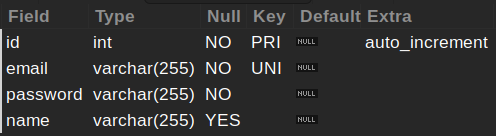
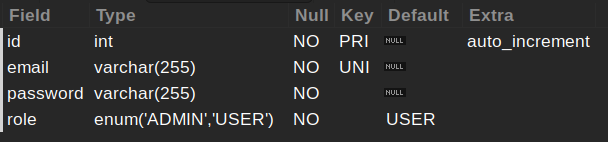
ongoing

diff --git a/backend/src/controllers/UserController.js b/backend/src/controllers/UserController.js
@@ -1,59 +1,133 @@
 const models = require("../models");
-const UserManager = require('../models/UserManager');
+const argon2 = require("argon2");
+const jwt = require("jsonwebtoken");
 
 class UserController {
   static register = async (req, res) => {
-    const { email, password, name } = req.body;
+    const { email, password, role } = req.body;
 
-    // TODO check if email and/or password are empty or missing
+    if (!email || !password) {
+      res.status(400).send({ error: "Please specify both email and password" });
+      return;
+    }
 
-    // TODO hash password
+    try {
+      const hash = await argon2.hash(password);
 
-    UserManager
-      .insert({ email, password, name })
-      .then(([result]) => {
-        // TODO success response
-      })
-      .catch((err) => {
-        console.error(err);
-        // TODO send error response
+      models.user
+        .insert({ email, password: hash, role })
+        .then(([result]) => {
+          res.status(201).send({ id: result.insertId, email, role });
+        })
+        .catch((err) => {
+          console.error(err);
+          res.status(500).send({
+            error: err.message,
+          });
+        });
+    } catch (err) {
+      console.error(err);
+      res.status(500).send({
+        error: err.message,
       });
+    }
   };
 
   static login = (req, res) => {
     const { email, password } = req.body;
 
-    // TODO check if email and/or password are empty or missing
+    if (!email || !password) {
+      res.status(400).send({ error: "Please specify both email and password" });
+    }
 
     models.user
-      // TODO complete the `findByMail` method in UserManager.js
       .findByMail(email)
       .then(async ([rows]) => {
         if (rows[0] == null) {
-          // TODO invalid email
+          res.status(401).send({
+            error: "Invalid email",
+          });
         } else {
-          // TODO check password
-          // TODO generate JWT
-          // TODO send response
+          const { id, email, password: hashedPassword, role } = rows[0];
+
+          if (await argon2.verify(hashedPassword, password)) {
+            const token = jwt.sign(
+              { id: id, role: role },
+              process.env.JWT_AUTH_SECRET,
+              {
+                expiresIn: "1h",
+              }
+            );
+
+            res
+              .cookie("access_token", token, {
+                httpOnly: true,
+                secure: process.env.NODE_ENV === "production",
+              })
+              .status(200)
+              .send({
+                id,
+                email,
+                role,
+              });
+          } else {
+            res.status(401).send({
+              error: "Invalid password",
+            });
+          }
         }
       })
       .catch((err) => {
         console.error(err);
-        // TODO send error response
+        res.status(500).send({
+          error: err.message,
+        });
       });
   };
 
-  // TODO add authenticateWithJsonWebToken method here!
+  // TODO add `authorization` middleware here!
+  static authorization = (req, res, next) => {
+    const token = req.cookies.access_token;
+    if (!token) {
+      return res.sendStatus(401);
+    }
+    try {
+      const data = jwt.verify(token, process.env.JWT_AUTH_SECRET);
+      req.userId = data.id;
+      req.userRole = data.role;
+      return next();
+    } catch {
+      return res.sendStatus(401);
+    }
+  };
+
+  // TODO add `isAdmin` middleware here!
+  static isAdmin = (req, res, next) => {
+    if (req.userRole === "ADMIN") {
+      return next();
+    }
+    return res.sendStatus(403);
+  };
 
   static browse = (req, res) => {
     models.user
       .findAll()
       .then(([rows]) => {
-        // TODO send users without passwords
+        res.send(
+          rows.map((user) => {
+            return {
+              id: user.id,
+              email: user.email,
+              role: user.role,
+            };
+          })
+        );
       })
       .catch((err) => {
         console.error(err);
-        // TODO send error response
+        res.status(500).send({
+          error: err.message,
+        });
       });
   };
 

diff --git a/backend/src/models/UserManager.js b/backend/src/models/UserManager.js
@@ -4,7 +4,12 @@ class UserManager extends AbstractManager {
   static table = "user";
 
   // TODO complete the `findByMail` method
-  findByMail(email) {}
+  findByMail(email) {
+    return this.connection.query(
+      `select * from ${UserManager.table} where email = ?`,
+      [email]
+    );
+  }
 
   insert(user) {
     return this.connection.query(

diff --git a/backend/src/app.js b/backend/src/app.js
@@ -1,4 +1,5 @@
 const express = require("express");
+const cookieParser = require("cookie-parser");
 const path = require("path");
 
 const cors = require("cors");
@@ -6,6 +7,8 @@ const cors = require("cors");
 // let's create express app
 
 const app = express();
+
+app.use(cookieParser());
 
 // use some application-level middlewares
 app.use(

diff --git a/README.md b/README.md
@@ -12,7 +12,7 @@ npm run setup
 
 ### Database
 
-In order to manage user registration and login, create a new database named `jwtcourse` and import the script `backend/database.sql` to recreate the following `user` table:
+In order to manage user registration and login, read then import the SQL file `backend/database.sql` to recreate the following `user` table:
 
 ![Database](pictures/2-database.png)
 
@@ -38,11 +38,13 @@ The route must retrieve a json with the following structure from the request bod
 {
   "email": "their email",
   "password": "their password",
-  "role": "their role"
+  "role": "their role, can only be USER or ADMIN"
 }
 ```
 
 If the email or password are not filled in, return an error 400 'Please specify both email and password'.
+
+By default, the role is USER.
 
 If they are, query the database and insert the data into the `user` table.
 
@@ -70,7 +72,7 @@ Test it with Postman:
 {
   "email": "test@test.fr",
   "password": "tacos",
-  "role": "admin"
+  "role": "USER"
 }
 ```
 
@@ -420,12 +422,12 @@ If all went well, return a 200 code with a json with the following structure:
   {
     "id": 1,
     "email": "test@test.fr",
-    "role": "admin"
+    "role": "USER"
   },
   {
     "id": 2,
     "email": "tacos@test.fr",
-    "role": "user"
+    "role": "ADMIN"
   }
 ]
 ```
@@ -531,11 +533,9 @@ Of course, you'll have to replace the _token_ with the one you got when you logg
 ```js
 // src/router.js
 
-const {
-  authenticateWithJsonWebToken,
-} = require("./controllers/UserController");
+const { authorization } = require("./controllers/UserController");
 
-router.get("/users", authenticateWithJsonWebToken, UserController.browse);
+router.get("/users", authorization, UserController.browse);
 ```
 
 # Frontend
